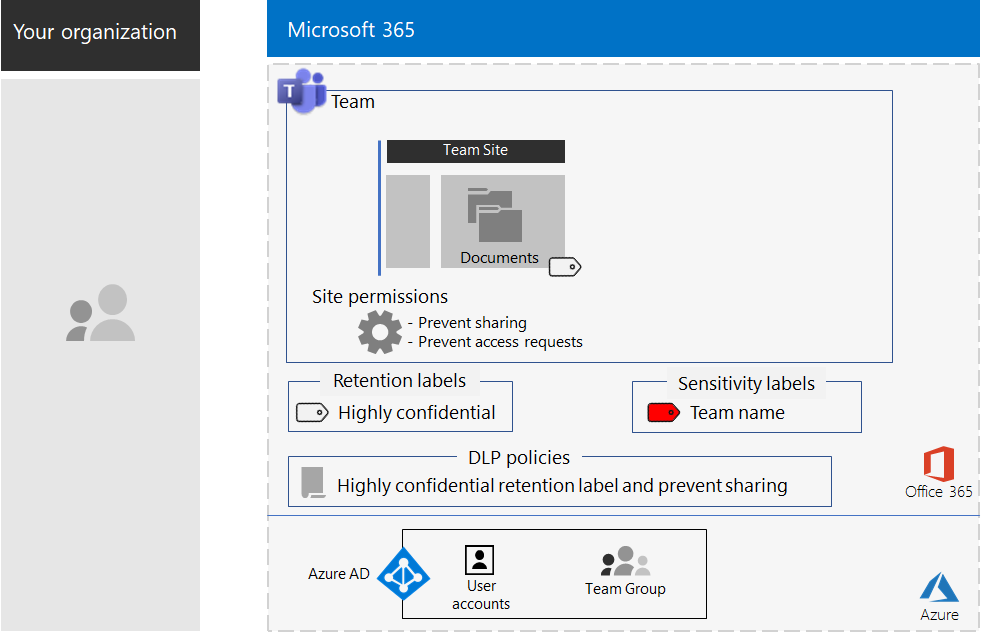
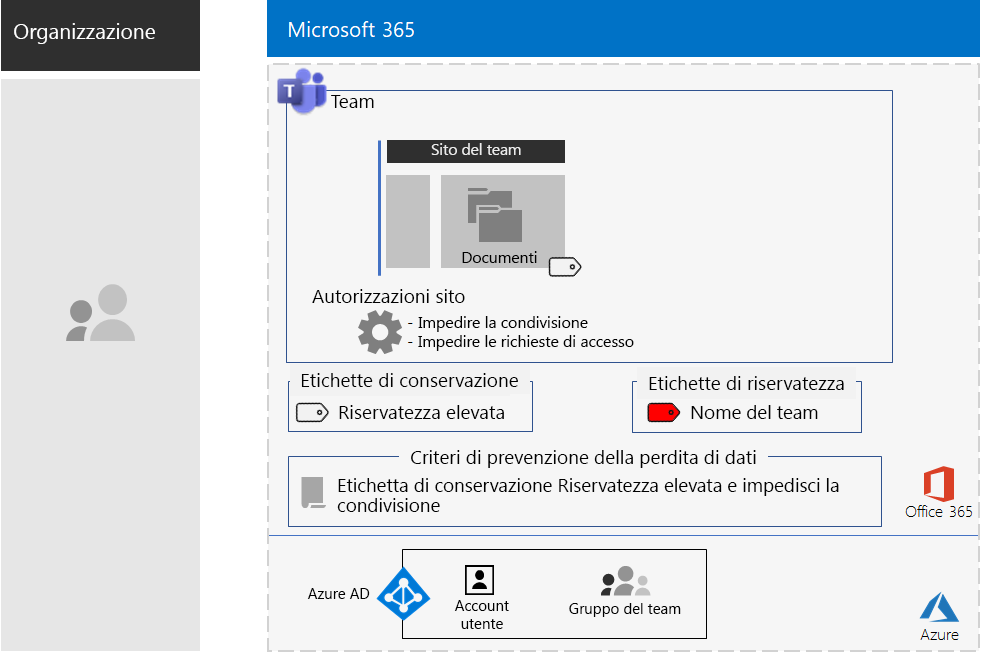
commit translated contents

diff --git a/microsoft-365/managed-desktop/TOC.md b/microsoft-365/managed-desktop/TOC.md
@@ -26,14 +26,17 @@
 ### [Preparare le app](get-ready/apps.md)
 #### [Lavorare con Microsoft Consulting Services](get-ready/apps-MCS.md)
 ## [Guida introduttiva a Microsoft Managed Desktop](get-started/index.md)
-### [Aggiungere contatti amministratore](get-started/add-admin-contacts.md)
+### [Aggiungere e verificare i contatti degli amministratori nel portale di amministrazione](get-started/add-admin-contacts.md)
+### [Modificare l'accesso condizionale](get-started/conditional-access.md)
+### [Assegnare licenze](get-started/assign-licenses.md)
+### [Distribuire il Portale aziendale Intune](get-started/company-portal.md)
+### [Abilitare Enterprise State Roaming](get-started/enterprise-state-roaming.md)
 ### [Configurare i dispositivi](get-started/set-up-devices.md)
 #### [Registrare manualmente i nuovi dispositivi](get-started/register-devices-self.md)
 ##### [Procedura per i partner per la registrazione dei dispositivi](get-started/register-devices-partner.md)
 #### [Registrare manualmente i dispositivi già presenti](get-started/register-reused-devices-self.md)
-#### [Preparare gli utenti a usare i dispositivi](get-started/get-started-devices.md)
+### [Preparare gli utenti a usare i dispositivi](get-started/get-started-devices.md)
 ### [Distribuire le app](get-started/deploy-apps.md)
-#### [Portale aziendale Intune](get-started/company-portal.md)
 #### [Microsoft Project e Microsoft Visio](get-started/project-visio.md)
 ## [Utilizzo di Microsoft Managed Desktop](working-with-managed-desktop/index.md)
 ### [Supporto amministratori](working-with-managed-desktop/admin-support.md)
